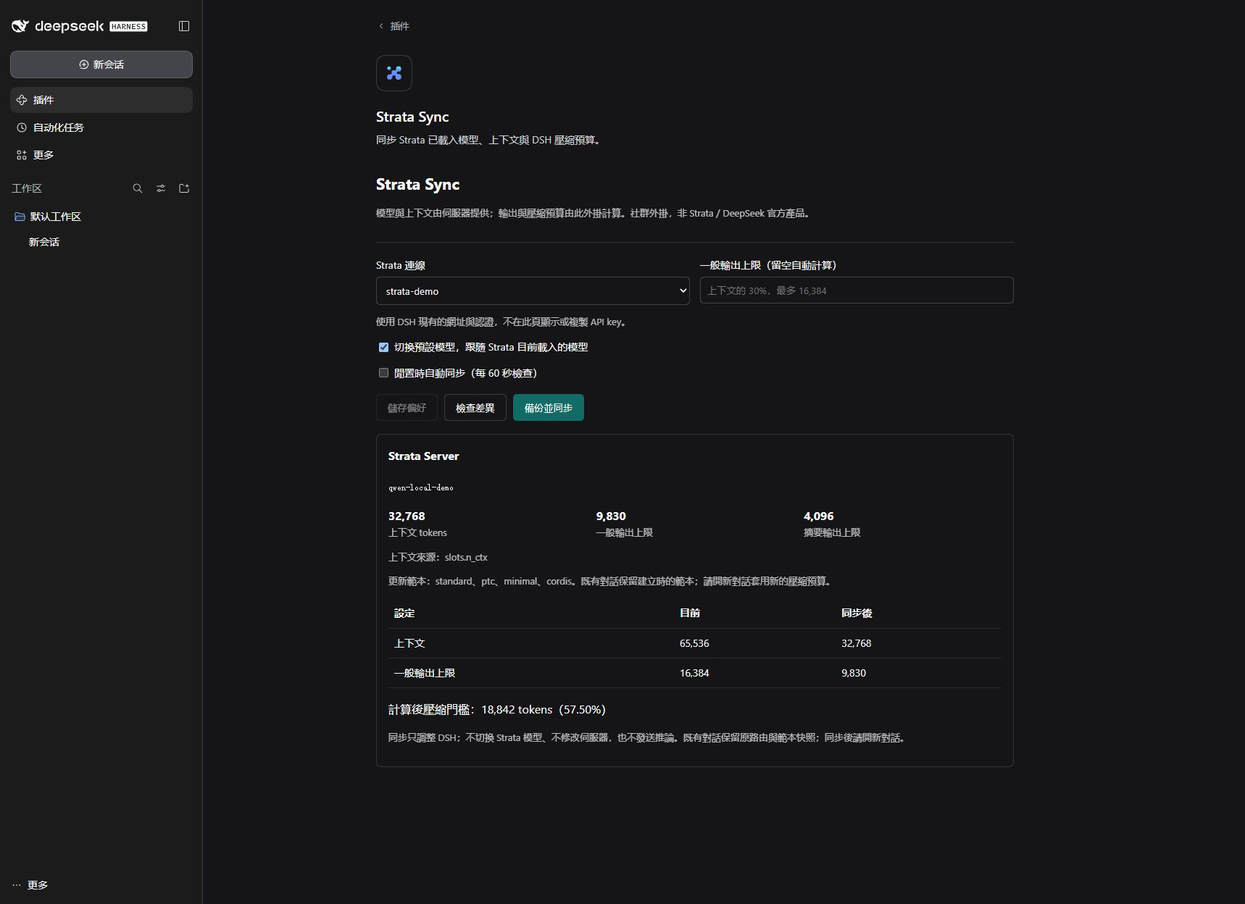
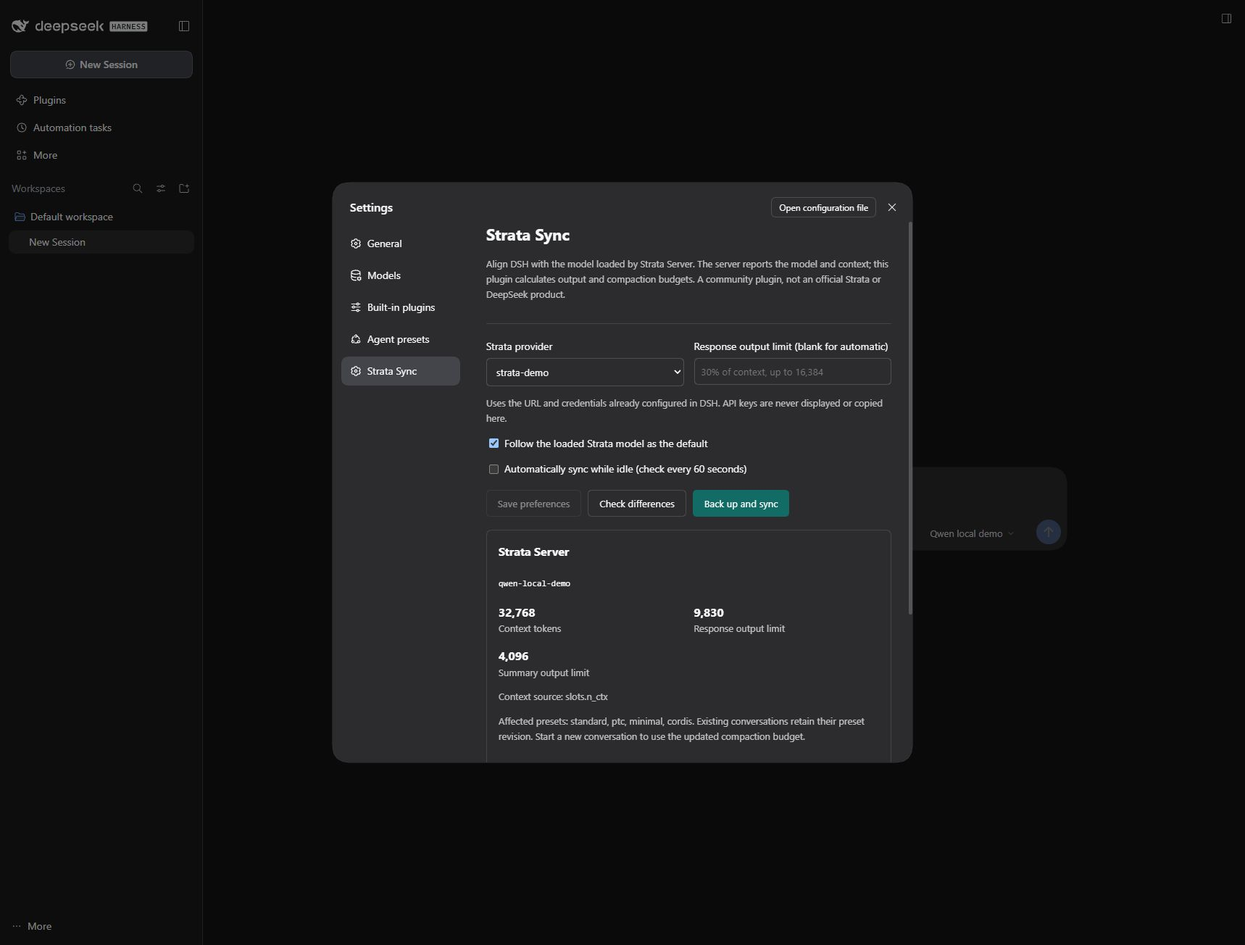
Release 0.2.0: English interface in native DSH Settings

diff --git a/dist/client.js b/dist/client.js
@@ -5,14 +5,19 @@ window.__ModuleLoader__.load({
     const React = require('react');
     const h = React.createElement;
     const labels = {
-      contextWindow: '上下文', outputTokens: '一般輸出上限', headroomTokens: '壓縮餘裕',
-      summaryMaxTokens: '摘要輸出上限', thresholdTokens: '壓縮門檻', retainTokens: '近期對話保留',
-      model: '模型', modelId: '模型', defaultModel: '預設模型',
-      thresholdRatio: '壓縮比例上限', retainRatio: '近期對話保留比例',
+      contextWindow: 'Context window', outputTokens: 'Response output limit', headroomTokens: 'Compaction headroom',
+      summaryMaxTokens: 'Summary output limit', thresholdTokens: 'Compaction threshold', retainTokens: 'Recent conversation retention',
+      model: 'Model', modelId: 'Model', defaultModel: 'Default model',
+      thresholdRatio: 'Compaction ratio ceiling', retainRatio: 'Recent conversation retention ratio',
     };
     const css = `.strata-sync{max-width:880px;color:inherit;font:inherit;line-height:1.6}.strata-sync *{box-sizing:border-box}.strata-sync header{border-bottom:1px solid #8884;padding-bottom:16px;margin-bottom:20px}.strata-sync h2{margin:0;font-size:22px}.strata-sync .ss-muted{opacity:.72;font-size:13px}.strata-sync .ss-grid{display:grid;grid-template-columns:repeat(auto-fit,minmax(210px,1fr));gap:14px}.strata-sync label{display:flex;flex-direction:column;gap:5px;font-size:14px}.strata-sync select,.strata-sync input[type=number]{padding:9px;border:1px solid #8886;border-radius:7px;background:transparent;color:inherit;width:100%}.strata-sync option{color:#17252b;background:#fff}.strata-sync button{padding:9px 15px;border:1px solid #8885;border-radius:7px;background:transparent;color:inherit;cursor:pointer}.strata-sync button.primary{background:#126c65;border-color:#126c65;color:#fff}.strata-sync button:disabled{opacity:.45;cursor:default}.strata-sync .ss-actions{display:flex;gap:9px;flex-wrap:wrap;margin:18px 0}.strata-sync .ss-check{display:flex;flex-direction:row;align-items:center;margin-top:13px}.strata-sync .ss-card{padding:16px;border:1px solid #8884;border-radius:9px;margin:16px 0}.strata-sync .ss-status{padding:10px 13px;border-left:3px solid #21867b;background:#21867b12;margin:13px 0;overflow-wrap:anywhere}.strata-sync .ss-error{border-color:#ce7140;background:#ce714012}.strata-sync table{width:100%;border-collapse:collapse;font-size:14px}.strata-sync td,.strata-sync th{padding:9px 8px;text-align:left;border-bottom:1px solid #8883;overflow-wrap:anywhere}.strata-sync code{font-size:12px;overflow-wrap:anywhere}.strata-sync .ss-scroll{overflow-x:auto}`;
-    const fmt = (v) => v == null ? '未指定' : typeof v === 'number' ? v.toLocaleString() : typeof v === 'object' ? JSON.stringify(v) : String(v);
-    function Card({ view, rpc }) {
+    const fmt = (v) => v == null ? 'Not set' : typeof v === 'number' ? v.toLocaleString('en-US') : typeof v === 'object' ? JSON.stringify(v) : String(v);
+    const warningText = {
+      DSH_AUTO_COMPACTION_DISABLED: 'Automatic compaction is disabled in an affected Agent preset. Sync preserves that choice.',
+      SLOTS_CONTEXT_UNAVAILABLE: 'Live slots do not report a context size. Using the model context reported by Strata.',
+      SLOTS_OVERRIDE_MODEL_CONTEXT: 'The active engine context differs from the model metadata. Using the active engine context.',
+    };
+    function SettingsPage({ rpc }) {
       const [state, setState] = React.useState(null), [preview, setPreview] = React.useState(null);
       const [providerId, setProviderId] = React.useState(''), [output, setOutput] = React.useState('');
       const [auto, setAuto] = React.useState(false), [follow, setFollow] = React.useState(true);
@@ -30,56 +35,56 @@ window.__ModuleLoader__.load({
         const timer = setInterval(() => { refresh().catch(() => {}); }, 15000);
         return () => { disposed = true; clearInterval(timer); };
       }, [rpc, refresh]);
-      async function action(fn) { setPending(true); setError(''); setNotice(''); try { await fn(); } catch(e) { setError(e.message || '操作失敗'); } finally { setPending(false); } }
+      async function action(fn) { setPending(true); setError(''); setNotice(''); try { await fn(); } catch(e) { setError(e.message || 'The operation failed.'); } finally { setPending(false); } }
       const outputTokens = output.trim() === '' ? null : Number(output);
       const valid = outputTokens === null || Number.isSafeInteger(outputTokens) && outputTokens > 0;
       const dirty = !!state && (providerId !== state.providerId || outputTokens !== state.outputTokens || auto !== state.autoSync || follow !== state.followLoadedModel);
-      if (view === 'summary') return '同步 Strata 已載入模型、上下文與 DSH 壓縮預算。';
       return h('section', {className:'strata-sync', 'aria-label':'Strata Sync'},
         h('style', null, css),
-        h('header', null, h('h2',null,'Strata Sync'), h('p',{className:'ss-muted'},'模型與上下文由伺服器提供；輸出與壓縮預算由此外掛計算。社群外掛，非 Strata／DeepSeek 官方產品。')),
-        state?.busy && h('div',{className:'ss-status',role:'status'},'DSH 有工作正在執行；同步會等到閒置後再套用。'),
+        h('header', null, h('h2',null,'Strata Sync'), h('p',{className:'ss-muted'},'Align DSH with the model loaded by Strata Server. The server reports the model and context; this plugin calculates output and compaction budgets. A community plugin, not an official Strata or DeepSeek product.')),
+        !state && !error && h('div',{className:'ss-status',role:'status'},'Loading sync settings...'),
+        state?.busy && h('div',{className:'ss-status',role:'status'},'DSH is running a task. Synchronization will wait until all tasks are idle.'),
         error && h('div',{className:'ss-status ss-error',role:'alert'},error),
         notice && h('div',{className:'ss-status',role:'status'},notice),
         h('div',{className:'ss-grid'},
-          h('label',null,'Strata 連線',h('select',{value:providerId,onChange:e=>{setProviderId(e.target.value);setPreview(null);},disabled:pending||!state},
-            h('option',{value:''},'選擇已設定的供應者'), ...(state?.providers||[]).map(p=>h('option',{key:p.id,value:p.id},p.id)))),
-          h('label',null,'一般輸出上限（留空自動計算）',h('input',{type:'number',min:1,step:1,value:output,placeholder:'上下文的 30%，最多 16,384',onChange:e=>{setOutput(e.target.value);setPreview(null);},disabled:pending||!state}))),
-        h('p',{className:'ss-muted'},'使用 DSH 現有的網址與認證，不在此頁顯示或複製 API key。'),
-        h('label',{className:'ss-check'},h('input',{type:'checkbox',checked:follow,onChange:e=>{setFollow(e.target.checked);setPreview(null);},disabled:pending||!state}),'切換預設模型，跟隨 Strata 目前載入的模型'),
-        h('label',{className:'ss-check'},h('input',{type:'checkbox',checked:auto,onChange:e=>setAuto(e.target.checked),disabled:pending||!state}),'閒置時自動同步（每 60 秒檢查）'),
+          h('label',null,'Strata provider',h('select',{value:providerId,onChange:e=>{setProviderId(e.target.value);setPreview(null);},disabled:pending||!state},
+            h('option',{value:''},'Choose an existing provider'), ...(state?.providers||[]).map(p=>h('option',{key:p.id,value:p.id},p.id)))),
+          h('label',null,'Response output limit (blank for automatic)',h('input',{type:'number',min:1,step:1,value:output,placeholder:'30% of context, up to 16,384',onChange:e=>{setOutput(e.target.value);setPreview(null);},disabled:pending||!state}))),
+        h('p',{className:'ss-muted'},'Uses the URL and credentials already configured in DSH. API keys are never displayed or copied here.'),
+        h('label',{className:'ss-check'},h('input',{type:'checkbox',checked:follow,onChange:e=>{setFollow(e.target.checked);setPreview(null);},disabled:pending||!state}),'Follow the loaded Strata model as the default'),
+        h('label',{className:'ss-check'},h('input',{type:'checkbox',checked:auto,onChange:e=>setAuto(e.target.checked),disabled:pending||!state}),'Automatically sync while idle (check every 60 seconds)'),
         h('div',{className:'ss-actions'},
-          h('button',{disabled:pending||!providerId||!valid||!dirty,onClick:()=>action(async()=>{const s=await rpc('configure',{providerId,autoSync:auto,followLoadedModel:follow,outputTokens});setState(s);setPreview(null);setNotice('同步偏好已儲存。');})},'儲存偏好'),
-          h('button',{disabled:pending||!providerId||dirty||!valid,onClick:()=>action(async()=>{setPreview(await rpc('preview',{providerId}));await refresh();})},pending?'處理中…':'檢查差異'),
-          h('button',{className:'primary',disabled:pending||dirty||!preview||state?.busy||preview.busy||!preview.changes?.length,onClick:()=>action(async()=>{const r=await rpc('apply',{fingerprint:preview.fingerprint,providerId});setPreview(null);setNotice(r.applied?'已同步並備份原設定。請開新對話使用更新後的壓縮設定。':'設定已一致，無須變更。');await refresh();})},'備份並同步')),
-        dirty && h('p',{className:'ss-muted'},'先儲存偏好，再取得最新差異。'),
+          h('button',{disabled:pending||!providerId||!valid||!dirty,onClick:()=>action(async()=>{const s=await rpc('configure',{providerId,autoSync:auto,followLoadedModel:follow,outputTokens});setState(s);setPreview(null);setNotice('Sync preferences saved.');})},'Save preferences'),
+          h('button',{disabled:pending||!providerId||dirty||!valid,onClick:()=>action(async()=>{setPreview(await rpc('preview',{providerId}));await refresh();})},pending?'Working...':'Check differences'),
+          h('button',{className:'primary',disabled:pending||dirty||!preview||state?.busy||preview.busy||!preview.changes?.length,onClick:()=>action(async()=>{const r=await rpc('apply',{fingerprint:preview.fingerprint,providerId});setPreview(null);setNotice(r.applied?'Synced and backed up the original settings. Start a new conversation to use the updated compaction policy.':'Settings already match. No changes needed.');await refresh();})},'Back up and sync')),
+        dirty && h('p',{className:'ss-muted'},'Save preferences before checking for differences.'),
         preview && h('div',{className:'ss-card'},
           h('strong',null,'Strata Server'), h('p',null,h('code',null,preview.server?.model?.id)),
           h('div',{className:'ss-grid'},
-            h('div',null,h('strong',null,fmt(preview.budget?.contextWindow)),h('div',{className:'ss-muted'},'上下文 tokens')),
-            h('div',null,h('strong',null,fmt(preview.budget?.outputTokens)),h('div',{className:'ss-muted'},'一般輸出上限')),
-            h('div',null,h('strong',null,fmt(preview.budget?.summaryMaxTokens)),h('div',{className:'ss-muted'},'摘要輸出上限'))),
-          h('p',{className:'ss-muted'},'上下文來源：',preview.server?.model?.contextSource||'伺服器模型資訊'),
-          preview.presetIds?.length > 0 && h('p',{className:'ss-muted'},'更新範本：',preview.presetIds.join('、'),'。既有對話保留建立時的範本；請開新對話套用新的壓縮預算。'),
-          ...(preview.server?.warnings||[]).map((w,i)=>h('div',{key:i,className:'ss-status ss-error'},typeof w==='string'?w:JSON.stringify(w))),
-          h('div',{className:'ss-scroll'},h('table',null,h('thead',null,h('tr',null,h('th',null,'設定'),h('th',null,'目前'),h('th',null,'同步後'))),
+            h('div',null,h('strong',null,fmt(preview.budget?.contextWindow)),h('div',{className:'ss-muted'},'Context tokens')),
+            h('div',null,h('strong',null,fmt(preview.budget?.outputTokens)),h('div',{className:'ss-muted'},'Response output limit')),
+            h('div',null,h('strong',null,fmt(preview.budget?.summaryMaxTokens)),h('div',{className:'ss-muted'},'Summary output limit'))),
+          h('p',{className:'ss-muted'},'Context source: ',preview.server?.model?.contextSource||'Server model metadata'),
+          preview.presetIds?.length > 0 && h('p',{className:'ss-muted'},'Affected presets: ',preview.presetIds.join(', '),'. Existing conversations retain their preset revision. Start a new conversation to use the updated compaction budget.'),
+          ...(preview.server?.warnings||[]).map((w,i)=>h('div',{key:i,className:'ss-status ss-error'},typeof w==='string'?(warningText[w]||(w.startsWith('SLOTS_')?'Live slot information is unavailable. Using the model context reported by Strata.':w)):JSON.stringify(w))),
+          h('div',{className:'ss-scroll'},h('table',null,h('thead',null,h('tr',null,h('th',null,'Setting'),h('th',null,'Current'),h('th',null,'After sync'))),
             h('tbody',null,...(preview.changes||[]).map(c=>h('tr',{key:(c.target||'')+c.field},h('td',null,labels[c.field]||c.field,c.target&&h('div',{className:'ss-muted'},c.target)),h('td',null,fmt(c.before)),h('td',null,fmt(c.after))))))),
-          !preview.changes?.length && h('p',null,'設定已對齊。'),
-          h('p',null,'計算後壓縮門檻：',fmt(preview.budget?.thresholdTokens),' tokens（',preview.budget?.thresholdPercent?.toFixed(2),'%）'),
-          h('p',{className:'ss-muted'},'同步只調整 DSH；不切換 Strata 模型、不修改伺服器，也不發送推論。既有對話保留原路由與範本快照；同步後請開新對話。')),
-        state?.lastApplied && h('p',{className:'ss-muted'},'最近同步：',fmt(state.lastApplied?.at||state.lastApplied?.time||state.lastApplied)),
-        state?.lastApplied?.backupPath && h('p',{className:'ss-muted'},'原設定備份：',h('code',null,state.lastApplied.backupPath)),
+          !preview.changes?.length && h('p',null,'Settings are aligned.'),
+          h('p',null,'Effective compaction threshold: ',fmt(preview.budget?.thresholdTokens),' tokens (',preview.budget?.thresholdPercent?.toFixed(2),'%)'),
+          h('p',{className:'ss-muted'},'Only DSH settings are updated. Sync does not switch server models, change Strata configuration, or send inference requests. Start a new conversation after syncing.')),
+        state?.lastApplied && h('p',{className:'ss-muted'},'Last sync: ',fmt(state.lastApplied?.at||state.lastApplied?.time||state.lastApplied)),
+        state?.lastApplied?.backupPath && h('p',{className:'ss-muted'},'Original settings backup: ',h('code',null,state.lastApplied.backupPath)),
         state?.lastError && h('div',{className:'ss-status ss-error'},typeof state.lastError==='string'?state.lastError:state.lastError.message));
     }
     function apply(ctx) {
       const rpc = async (endpoint,payload) => {
         const result = await ctx.connection.rpc.call('/api','strata-sync/'+endpoint,payload);
-        if (!result?.ok) throw new Error(result?.error?.message || 'Strata Sync 服務尚未就緒。');
+        if (!result?.ok) throw new Error(result?.error?.message || 'Strata Sync is not ready.');
         return result.value;
       };
-      ctx.effect(() => ctx.slots.inject('plugins.item', () => ctx.slots.register({
-        name:'plugins.item',id:'strata-sync',order:25,label:'Strata Sync',inject:()=>({rpc}),
-      },Card)), 'strata-sync: settings page');
+      ctx.effect(() => ctx.slots.inject('settings.section', () => ctx.slots.register({
+        name:'settings.section',id:'strata-sync',order:25,label:()=> 'Strata Sync',inject:()=>({rpc}),
+      },SettingsPage)), 'strata-sync: settings page');
     }
     return {inject:['slots','connection'],apply};
   },

diff --git a/src/client.js b/src/client.js
@@ -5,14 +5,19 @@ window.__ModuleLoader__.load({
     const React = require('react');
     const h = React.createElement;
     const labels = {
-      contextWindow: '上下文', outputTokens: '一般輸出上限', headroomTokens: '壓縮餘裕',
-      summaryMaxTokens: '摘要輸出上限', thresholdTokens: '壓縮門檻', retainTokens: '近期對話保留',
-      model: '模型', modelId: '模型', defaultModel: '預設模型',
-      thresholdRatio: '壓縮比例上限', retainRatio: '近期對話保留比例',
+      contextWindow: 'Context window', outputTokens: 'Response output limit', headroomTokens: 'Compaction headroom',
+      summaryMaxTokens: 'Summary output limit', thresholdTokens: 'Compaction threshold', retainTokens: 'Recent conversation retention',
+      model: 'Model', modelId: 'Model', defaultModel: 'Default model',
+      thresholdRatio: 'Compaction ratio ceiling', retainRatio: 'Recent conversation retention ratio',
     };
     const css = `.strata-sync{max-width:880px;color:inherit;font:inherit;line-height:1.6}.strata-sync *{box-sizing:border-box}.strata-sync header{border-bottom:1px solid #8884;padding-bottom:16px;margin-bottom:20px}.strata-sync h2{margin:0;font-size:22px}.strata-sync .ss-muted{opacity:.72;font-size:13px}.strata-sync .ss-grid{display:grid;grid-template-columns:repeat(auto-fit,minmax(210px,1fr));gap:14px}.strata-sync label{display:flex;flex-direction:column;gap:5px;font-size:14px}.strata-sync select,.strata-sync input[type=number]{padding:9px;border:1px solid #8886;border-radius:7px;background:transparent;color:inherit;width:100%}.strata-sync option{color:#17252b;background:#fff}.strata-sync button{padding:9px 15px;border:1px solid #8885;border-radius:7px;background:transparent;color:inherit;cursor:pointer}.strata-sync button.primary{background:#126c65;border-color:#126c65;color:#fff}.strata-sync button:disabled{opacity:.45;cursor:default}.strata-sync .ss-actions{display:flex;gap:9px;flex-wrap:wrap;margin:18px 0}.strata-sync .ss-check{display:flex;flex-direction:row;align-items:center;margin-top:13px}.strata-sync .ss-card{padding:16px;border:1px solid #8884;border-radius:9px;margin:16px 0}.strata-sync .ss-status{padding:10px 13px;border-left:3px solid #21867b;background:#21867b12;margin:13px 0;overflow-wrap:anywhere}.strata-sync .ss-error{border-color:#ce7140;background:#ce714012}.strata-sync table{width:100%;border-collapse:collapse;font-size:14px}.strata-sync td,.strata-sync th{padding:9px 8px;text-align:left;border-bottom:1px solid #8883;overflow-wrap:anywhere}.strata-sync code{font-size:12px;overflow-wrap:anywhere}.strata-sync .ss-scroll{overflow-x:auto}`;
-    const fmt = (v) => v == null ? '未指定' : typeof v === 'number' ? v.toLocaleString() : typeof v === 'object' ? JSON.stringify(v) : String(v);
-    function Card({ view, rpc }) {
+    const fmt = (v) => v == null ? 'Not set' : typeof v === 'number' ? v.toLocaleString('en-US') : typeof v === 'object' ? JSON.stringify(v) : String(v);
+    const warningText = {
+      DSH_AUTO_COMPACTION_DISABLED: 'Automatic compaction is disabled in an affected Agent preset. Sync preserves that choice.',
+      SLOTS_CONTEXT_UNAVAILABLE: 'Live slots do not report a context size. Using the model context reported by Strata.',
+      SLOTS_OVERRIDE_MODEL_CONTEXT: 'The active engine context differs from the model metadata. Using the active engine context.',
+    };
+    function SettingsPage({ rpc }) {
       const [state, setState] = React.useState(null), [preview, setPreview] = React.useState(null);
       const [providerId, setProviderId] = React.useState(''), [output, setOutput] = React.useState('');
       const [auto, setAuto] = React.useState(false), [follow, setFollow] = React.useState(true);
@@ -30,56 +35,56 @@ window.__ModuleLoader__.load({
         const timer = setInterval(() => { refresh().catch(() => {}); }, 15000);
         return () => { disposed = true; clearInterval(timer); };
       }, [rpc, refresh]);
-      async function action(fn) { setPending(true); setError(''); setNotice(''); try { await fn(); } catch(e) { setError(e.message || '操作失敗'); } finally { setPending(false); } }
+      async function action(fn) { setPending(true); setError(''); setNotice(''); try { await fn(); } catch(e) { setError(e.message || 'The operation failed.'); } finally { setPending(false); } }
       const outputTokens = output.trim() === '' ? null : Number(output);
       const valid = outputTokens === null || Number.isSafeInteger(outputTokens) && outputTokens > 0;
       const dirty = !!state && (providerId !== state.providerId || outputTokens !== state.outputTokens || auto !== state.autoSync || follow !== state.followLoadedModel);
-      if (view === 'summary') return '同步 Strata 已載入模型、上下文與 DSH 壓縮預算。';
       return h('section', {className:'strata-sync', 'aria-label':'Strata Sync'},
         h('style', null, css),
-        h('header', null, h('h2',null,'Strata Sync'), h('p',{className:'ss-muted'},'模型與上下文由伺服器提供；輸出與壓縮預算由此外掛計算。社群外掛，非 Strata／DeepSeek 官方產品。')),
-        state?.busy && h('div',{className:'ss-status',role:'status'},'DSH 有工作正在執行；同步會等到閒置後再套用。'),
+        h('header', null, h('h2',null,'Strata Sync'), h('p',{className:'ss-muted'},'Align DSH with the model loaded by Strata Server. The server reports the model and context; this plugin calculates output and compaction budgets. A community plugin, not an official Strata or DeepSeek product.')),
+        !state && !error && h('div',{className:'ss-status',role:'status'},'Loading sync settings...'),
+        state?.busy && h('div',{className:'ss-status',role:'status'},'DSH is running a task. Synchronization will wait until all tasks are idle.'),
         error && h('div',{className:'ss-status ss-error',role:'alert'},error),
         notice && h('div',{className:'ss-status',role:'status'},notice),
         h('div',{className:'ss-grid'},
-          h('label',null,'Strata 連線',h('select',{value:providerId,onChange:e=>{setProviderId(e.target.value);setPreview(null);},disabled:pending||!state},
-            h('option',{value:''},'選擇已設定的供應者'), ...(state?.providers||[]).map(p=>h('option',{key:p.id,value:p.id},p.id)))),
-          h('label',null,'一般輸出上限（留空自動計算）',h('input',{type:'number',min:1,step:1,value:output,placeholder:'上下文的 30%，最多 16,384',onChange:e=>{setOutput(e.target.value);setPreview(null);},disabled:pending||!state}))),
-        h('p',{className:'ss-muted'},'使用 DSH 現有的網址與認證，不在此頁顯示或複製 API key。'),
-        h('label',{className:'ss-check'},h('input',{type:'checkbox',checked:follow,onChange:e=>{setFollow(e.target.checked);setPreview(null);},disabled:pending||!state}),'切換預設模型，跟隨 Strata 目前載入的模型'),
-        h('label',{className:'ss-check'},h('input',{type:'checkbox',checked:auto,onChange:e=>setAuto(e.target.checked),disabled:pending||!state}),'閒置時自動同步（每 60 秒檢查）'),
+          h('label',null,'Strata provider',h('select',{value:providerId,onChange:e=>{setProviderId(e.target.value);setPreview(null);},disabled:pending||!state},
+            h('option',{value:''},'Choose an existing provider'), ...(state?.providers||[]).map(p=>h('option',{key:p.id,value:p.id},p.id)))),
+          h('label',null,'Response output limit (blank for automatic)',h('input',{type:'number',min:1,step:1,value:output,placeholder:'30% of context, up to 16,384',onChange:e=>{setOutput(e.target.value);setPreview(null);},disabled:pending||!state}))),
+        h('p',{className:'ss-muted'},'Uses the URL and credentials already configured in DSH. API keys are never displayed or copied here.'),
+        h('label',{className:'ss-check'},h('input',{type:'checkbox',checked:follow,onChange:e=>{setFollow(e.target.checked);setPreview(null);},disabled:pending||!state}),'Follow the loaded Strata model as the default'),
+        h('label',{className:'ss-check'},h('input',{type:'checkbox',checked:auto,onChange:e=>setAuto(e.target.checked),disabled:pending||!state}),'Automatically sync while idle (check every 60 seconds)'),
         h('div',{className:'ss-actions'},
-          h('button',{disabled:pending||!providerId||!valid||!dirty,onClick:()=>action(async()=>{const s=await rpc('configure',{providerId,autoSync:auto,followLoadedModel:follow,outputTokens});setState(s);setPreview(null);setNotice('同步偏好已儲存。');})},'儲存偏好'),
-          h('button',{disabled:pending||!providerId||dirty||!valid,onClick:()=>action(async()=>{setPreview(await rpc('preview',{providerId}));await refresh();})},pending?'處理中…':'檢查差異'),
-          h('button',{className:'primary',disabled:pending||dirty||!preview||state?.busy||preview.busy||!preview.changes?.length,onClick:()=>action(async()=>{const r=await rpc('apply',{fingerprint:preview.fingerprint,providerId});setPreview(null);setNotice(r.applied?'已同步並備份原設定。請開新對話使用更新後的壓縮設定。':'設定已一致，無須變更。');await refresh();})},'備份並同步')),
-        dirty && h('p',{className:'ss-muted'},'先儲存偏好，再取得最新差異。'),
+          h('button',{disabled:pending||!providerId||!valid||!dirty,onClick:()=>action(async()=>{const s=await rpc('configure',{providerId,autoSync:auto,followLoadedModel:follow,outputTokens});setState(s);setPreview(null);setNotice('Sync preferences saved.');})},'Save preferences'),
+          h('button',{disabled:pending||!providerId||dirty||!valid,onClick:()=>action(async()=>{setPreview(await rpc('preview',{providerId}));await refresh();})},pending?'Working...':'Check differences'),
+          h('button',{className:'primary',disabled:pending||dirty||!preview||state?.busy||preview.busy||!preview.changes?.length,onClick:()=>action(async()=>{const r=await rpc('apply',{fingerprint:preview.fingerprint,providerId});setPreview(null);setNotice(r.applied?'Synced and backed up the original settings. Start a new conversation to use the updated compaction policy.':'Settings already match. No changes needed.');await refresh();})},'Back up and sync')),
+        dirty && h('p',{className:'ss-muted'},'Save preferences before checking for differences.'),
         preview && h('div',{className:'ss-card'},
           h('strong',null,'Strata Server'), h('p',null,h('code',null,preview.server?.model?.id)),
           h('div',{className:'ss-grid'},
-            h('div',null,h('strong',null,fmt(preview.budget?.contextWindow)),h('div',{className:'ss-muted'},'上下文 tokens')),
-            h('div',null,h('strong',null,fmt(preview.budget?.outputTokens)),h('div',{className:'ss-muted'},'一般輸出上限')),
-            h('div',null,h('strong',null,fmt(preview.budget?.summaryMaxTokens)),h('div',{className:'ss-muted'},'摘要輸出上限'))),
-          h('p',{className:'ss-muted'},'上下文來源：',preview.server?.model?.contextSource||'伺服器模型資訊'),
-          preview.presetIds?.length > 0 && h('p',{className:'ss-muted'},'更新範本：',preview.presetIds.join('、'),'。既有對話保留建立時的範本；請開新對話套用新的壓縮預算。'),
-          ...(preview.server?.warnings||[]).map((w,i)=>h('div',{key:i,className:'ss-status ss-error'},typeof w==='string'?w:JSON.stringify(w))),
-          h('div',{className:'ss-scroll'},h('table',null,h('thead',null,h('tr',null,h('th',null,'設定'),h('th',null,'目前'),h('th',null,'同步後'))),
+            h('div',null,h('strong',null,fmt(preview.budget?.contextWindow)),h('div',{className:'ss-muted'},'Context tokens')),
+            h('div',null,h('strong',null,fmt(preview.budget?.outputTokens)),h('div',{className:'ss-muted'},'Response output limit')),
+            h('div',null,h('strong',null,fmt(preview.budget?.summaryMaxTokens)),h('div',{className:'ss-muted'},'Summary output limit'))),
+          h('p',{className:'ss-muted'},'Context source: ',preview.server?.model?.contextSource||'Server model metadata'),
+          preview.presetIds?.length > 0 && h('p',{className:'ss-muted'},'Affected presets: ',preview.presetIds.join(', '),'. Existing conversations retain their preset revision. Start a new conversation to use the updated compaction budget.'),
+          ...(preview.server?.warnings||[]).map((w,i)=>h('div',{key:i,className:'ss-status ss-error'},typeof w==='string'?(warningText[w]||(w.startsWith('SLOTS_')?'Live slot information is unavailable. Using the model context reported by Strata.':w)):JSON.stringify(w))),
+          h('div',{className:'ss-scroll'},h('table',null,h('thead',null,h('tr',null,h('th',null,'Setting'),h('th',null,'Current'),h('th',null,'After sync'))),
             h('tbody',null,...(preview.changes||[]).map(c=>h('tr',{key:(c.target||'')+c.field},h('td',null,labels[c.field]||c.field,c.target&&h('div',{className:'ss-muted'},c.target)),h('td',null,fmt(c.before)),h('td',null,fmt(c.after))))))),
-          !preview.changes?.length && h('p',null,'設定已對齊。'),
-          h('p',null,'計算後壓縮門檻：',fmt(preview.budget?.thresholdTokens),' tokens（',preview.budget?.thresholdPercent?.toFixed(2),'%）'),
-          h('p',{className:'ss-muted'},'同步只調整 DSH；不切換 Strata 模型、不修改伺服器，也不發送推論。既有對話保留原路由與範本快照；同步後請開新對話。')),
-        state?.lastApplied && h('p',{className:'ss-muted'},'最近同步：',fmt(state.lastApplied?.at||state.lastApplied?.time||state.lastApplied)),
-        state?.lastApplied?.backupPath && h('p',{className:'ss-muted'},'原設定備份：',h('code',null,state.lastApplied.backupPath)),
+          !preview.changes?.length && h('p',null,'Settings are aligned.'),
+          h('p',null,'Effective compaction threshold: ',fmt(preview.budget?.thresholdTokens),' tokens (',preview.budget?.thresholdPercent?.toFixed(2),'%)'),
+          h('p',{className:'ss-muted'},'Only DSH settings are updated. Sync does not switch server models, change Strata configuration, or send inference requests. Start a new conversation after syncing.')),
+        state?.lastApplied && h('p',{className:'ss-muted'},'Last sync: ',fmt(state.lastApplied?.at||state.lastApplied?.time||state.lastApplied)),
+        state?.lastApplied?.backupPath && h('p',{className:'ss-muted'},'Original settings backup: ',h('code',null,state.lastApplied.backupPath)),
         state?.lastError && h('div',{className:'ss-status ss-error'},typeof state.lastError==='string'?state.lastError:state.lastError.message));
     }
     function apply(ctx) {
       const rpc = async (endpoint,payload) => {
         const result = await ctx.connection.rpc.call('/api','strata-sync/'+endpoint,payload);
-        if (!result?.ok) throw new Error(result?.error?.message || 'Strata Sync 服務尚未就緒。');
+        if (!result?.ok) throw new Error(result?.error?.message || 'Strata Sync is not ready.');
         return result.value;
       };
-      ctx.effect(() => ctx.slots.inject('plugins.item', () => ctx.slots.register({
-        name:'plugins.item',id:'strata-sync',order:25,label:'Strata Sync',inject:()=>({rpc}),
-      },Card)), 'strata-sync: settings page');
+      ctx.effect(() => ctx.slots.inject('settings.section', () => ctx.slots.register({
+        name:'settings.section',id:'strata-sync',order:25,label:()=> 'Strata Sync',inject:()=>({rpc}),
+      },SettingsPage)), 'strata-sync: settings page');
     }
     return {inject:['slots','connection'],apply};
   },

diff --git a/README.md b/README.md
@@ -2,9 +2,9 @@
 
 A community plugin that aligns **DeepSeek Harness (DSH)** with the model actually loaded by **Strata Server**, using a native DSH settings UI. This is not an official DeepSeek or Strata product.
 
-繁體中文介面，適用於已設定 Strata 供應者的 DSH。從 **外掛 → Strata Sync** 檢查差異、同步，或啟用閒置時自動同步。
+Open **Settings → Strata Sync** to inspect differences, synchronize an existing Strata provider, or enable automatic synchronization while DSH is idle. The interface and documentation are in English.
 
-![Native DSH Strata Sync settings](https://raw.githubusercontent.com/ethan741205/dsh-strata-sync/main/docs/ui-preview.jpg)
+![Native DSH Strata Sync settings](https://raw.githubusercontent.com/ethan741205/dsh-strata-sync/main/docs/ui-preview.jpg?v=0.2.0)
 
 ## What it does
 
@@ -36,22 +36,28 @@ cd dsh-strata-sync
 npm ci
 npm test
 npm pack
-dsh plugin --profile desktop add ./ethan741205-dsh-strata-sync-0.1.0.tgz
+dsh plugin --profile desktop add ./ethan741205-dsh-strata-sync-0.2.0.tgz
 ```
 
 Use an absolute tarball path if running the last command elsewhere. DSH's plugin installer selects the included bundle; it can require a desktop reload to mount the new browser entry. Finish any active task before restarting DSH.
 
 For the desktop profile, fully quit DSH Desktop before using the CLI installer, then reopen it. The bundle is automatically selected on its first installation; an already installed but disabled bundle must be enabled in DSH's plugin manager.
 
-Then open **Plugins / 外掛 → Strata Sync**:
+Then open **Settings → Strata Sync**:
 
 1. Choose the existing Strata provider and save preferences.
-2. Click **檢查差異** to read the loaded model and preview the proposed settings.
-3. Click **備份並同步** while DSH is idle.
-4. Optionally enable **閒置時自動同步** and save. Auto-sync defaults to off.
+2. Click **Check differences** to read the loaded model and preview the proposed settings.
+3. Click **Back up and sync** while DSH is idle.
+4. Optionally enable **Automatically sync while idle** and save. Auto-sync defaults to off.
 5. Start a new conversation to use the new Agent preset revision.
 
 No API key needs to be copied into this plugin. Set up or repair credentials in DSH Models settings.
+
+## Changes in 0.2.0
+
+- Moves the Strata Sync interface into DSH's native **Settings** navigation.
+- Uses English throughout the interface and repository documentation.
+- Preserves the synchronization policy, optional idle polling, backups and existing-conversation behavior described below.
 
 ## Budget policy
 
@@ -93,7 +99,7 @@ npm run build
 npm pack --dry-run
 ```
 
-The 35 automated tests cover metadata validation, credentials/redirect safety, budgets, busy-state guards, stale previews, preservation of unrelated settings, rollback, automatic polling, HMR context, preset activation and UI behavior. Tests use simulated endpoints and DSH services; they do not generate model responses. See [native-host validation](docs/VALIDATION.md) for the isolated DSH UI check.
+Automated tests cover metadata validation, credentials/redirect safety, budgets, busy-state guards, stale previews, preservation of unrelated settings, rollback, automatic polling, HMR context, preset activation and UI behavior. Tests use simulated endpoints and DSH services; they do not generate model responses. See [validation notes](docs/VALIDATION.md) for the verified version and the isolated native-host checks.
 
 References: [DSH compaction documentation](https://github.com/deepseek-ai/deepseek-harness/blob/master/packages/compaction/compaction-basic/README.md), [Strata](https://github.com/Niko1221/Strata).
 

diff --git a/docs/VALIDATION.md b/docs/VALIDATION.md
@@ -2,18 +2,37 @@
 
 Validation date: 2026-10-30 (Asia/Taipei).
 
-## Automated checks
+## Version scope
+
+Version **0.2.0** moves the English interface to **Settings → Strata Sync**. Its Settings navigation, preferences, preview and synchronization were verified in the native host. The synchronization backend is unchanged from 0.1.0; the earlier full automatic-polling validation is retained below.
+
+## Completed automated checks for 0.2.0
 
 `npm test`: 35 passing tests covering discovery, native-client registration and UI behavior, budgeting, credentials, redirects, concurrent changes, lifecycle disposal, rollback, preset activation, retention inheritance and HMR timer context.
 
+The updated UI tests require registration in `settings.section`, reject the old `plugins.item` location, and verify English UI text. Repository source and documentation were also scanned for remaining Chinese text; the screenshot was replaced with the English Settings page.
+
 `npm run build` and `npm pack` produce the native host and browser entries. The package contains original plugin code only; no extracted DSH code, credentials, user conversations, server configuration or backups are distributed.
 
-## Native DSH host
+## Native Settings validation for 0.2.0
+
+Using the installed DSH Desktop 0.2.1-rc.3 host with an isolated web profile and a metadata-only local fixture:
+
+- Installed version 0.2.0 using the official plugin installer.
+- Navigated through Account menu → Settings → Strata Sync; confirmed the page is a first-level Settings section.
+- Switched only the isolated test profile to English to capture an entirely English screenshot.
+- Previewed the context mismatch, used **Back up and sync**, and verified the saved context/output limits were 32,768/9,830 with a profile backup.
+- Saved and cleared an output-budget override using **Save preferences**.
+- Checked again and confirmed the settings were aligned.
+
+No production DSH settings or Strata server settings were changed.
+
+## Earlier native backend validation for 0.1.0
 
 Tested using the installed DSH Desktop 0.2.1-rc.3 host in an isolated web profile, with a local metadata-only fixture. The real user profile and running inference server were not modified.
 
 - Installed the packed bundle through the official DSH plugin installer.
-- Opened the actual DSH Plugins page and Strata Sync UI.
+- Opened the actual DSH Plugins page and Strata Sync UI used by version 0.1.0.
 - Saved preferences, previewed a 64K-to-32K mismatch, and applied the change.
 - Confirmed the native ConfigEditor saved the model limit and the exact provider/model policy in four enabled Agent presets: `standard`, `ptc`, `minimal`, and `cordis`.
 - Confirmed the original profile was backed up, preset activation succeeded, and a second preview reported no differences.
